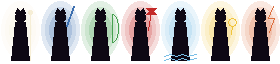
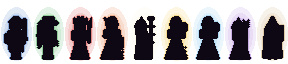
Sonho: os nove orixás que têm mundo, em sombra com o formato do desenho de cada um
Claude-Session: https://claude.ai/code/session_01YNJz6pAgFVkCK3E9s9URPQ

diff --git a/README.md b/README.md
@@ -50,7 +50,8 @@ no teclado, "Aperte E". Nos diálogos e avisos, escreva `{interagir}`, `{atirar}
 ## O que tem nesta versão
 
 **No terreiro (visão de cima)**
-- Abertura com o sonho: sete silhuetas de orixás, cada uma com sua cor.
+- Abertura com o sonho: nove silhuetas, os orixás que têm mundo no mapa, em sombra com o formato do desenho de cada um
+  e a aura e o contorno de luz na cor dele (`arte/sonho_orixas.png`, feito pelo `gerar_sonho_sombras.py`).
 - A casa com barracão (congá, atabaques, esteira), cozinha, despensa e o quintal com horta, árvores,
   a tronqueira e a porteira.
 - As pessoas da casa: a Vó (mãe de santo), a Tia Dora (cozinha), o Ogã Bené (atabaques) e a Lia (cambone).
